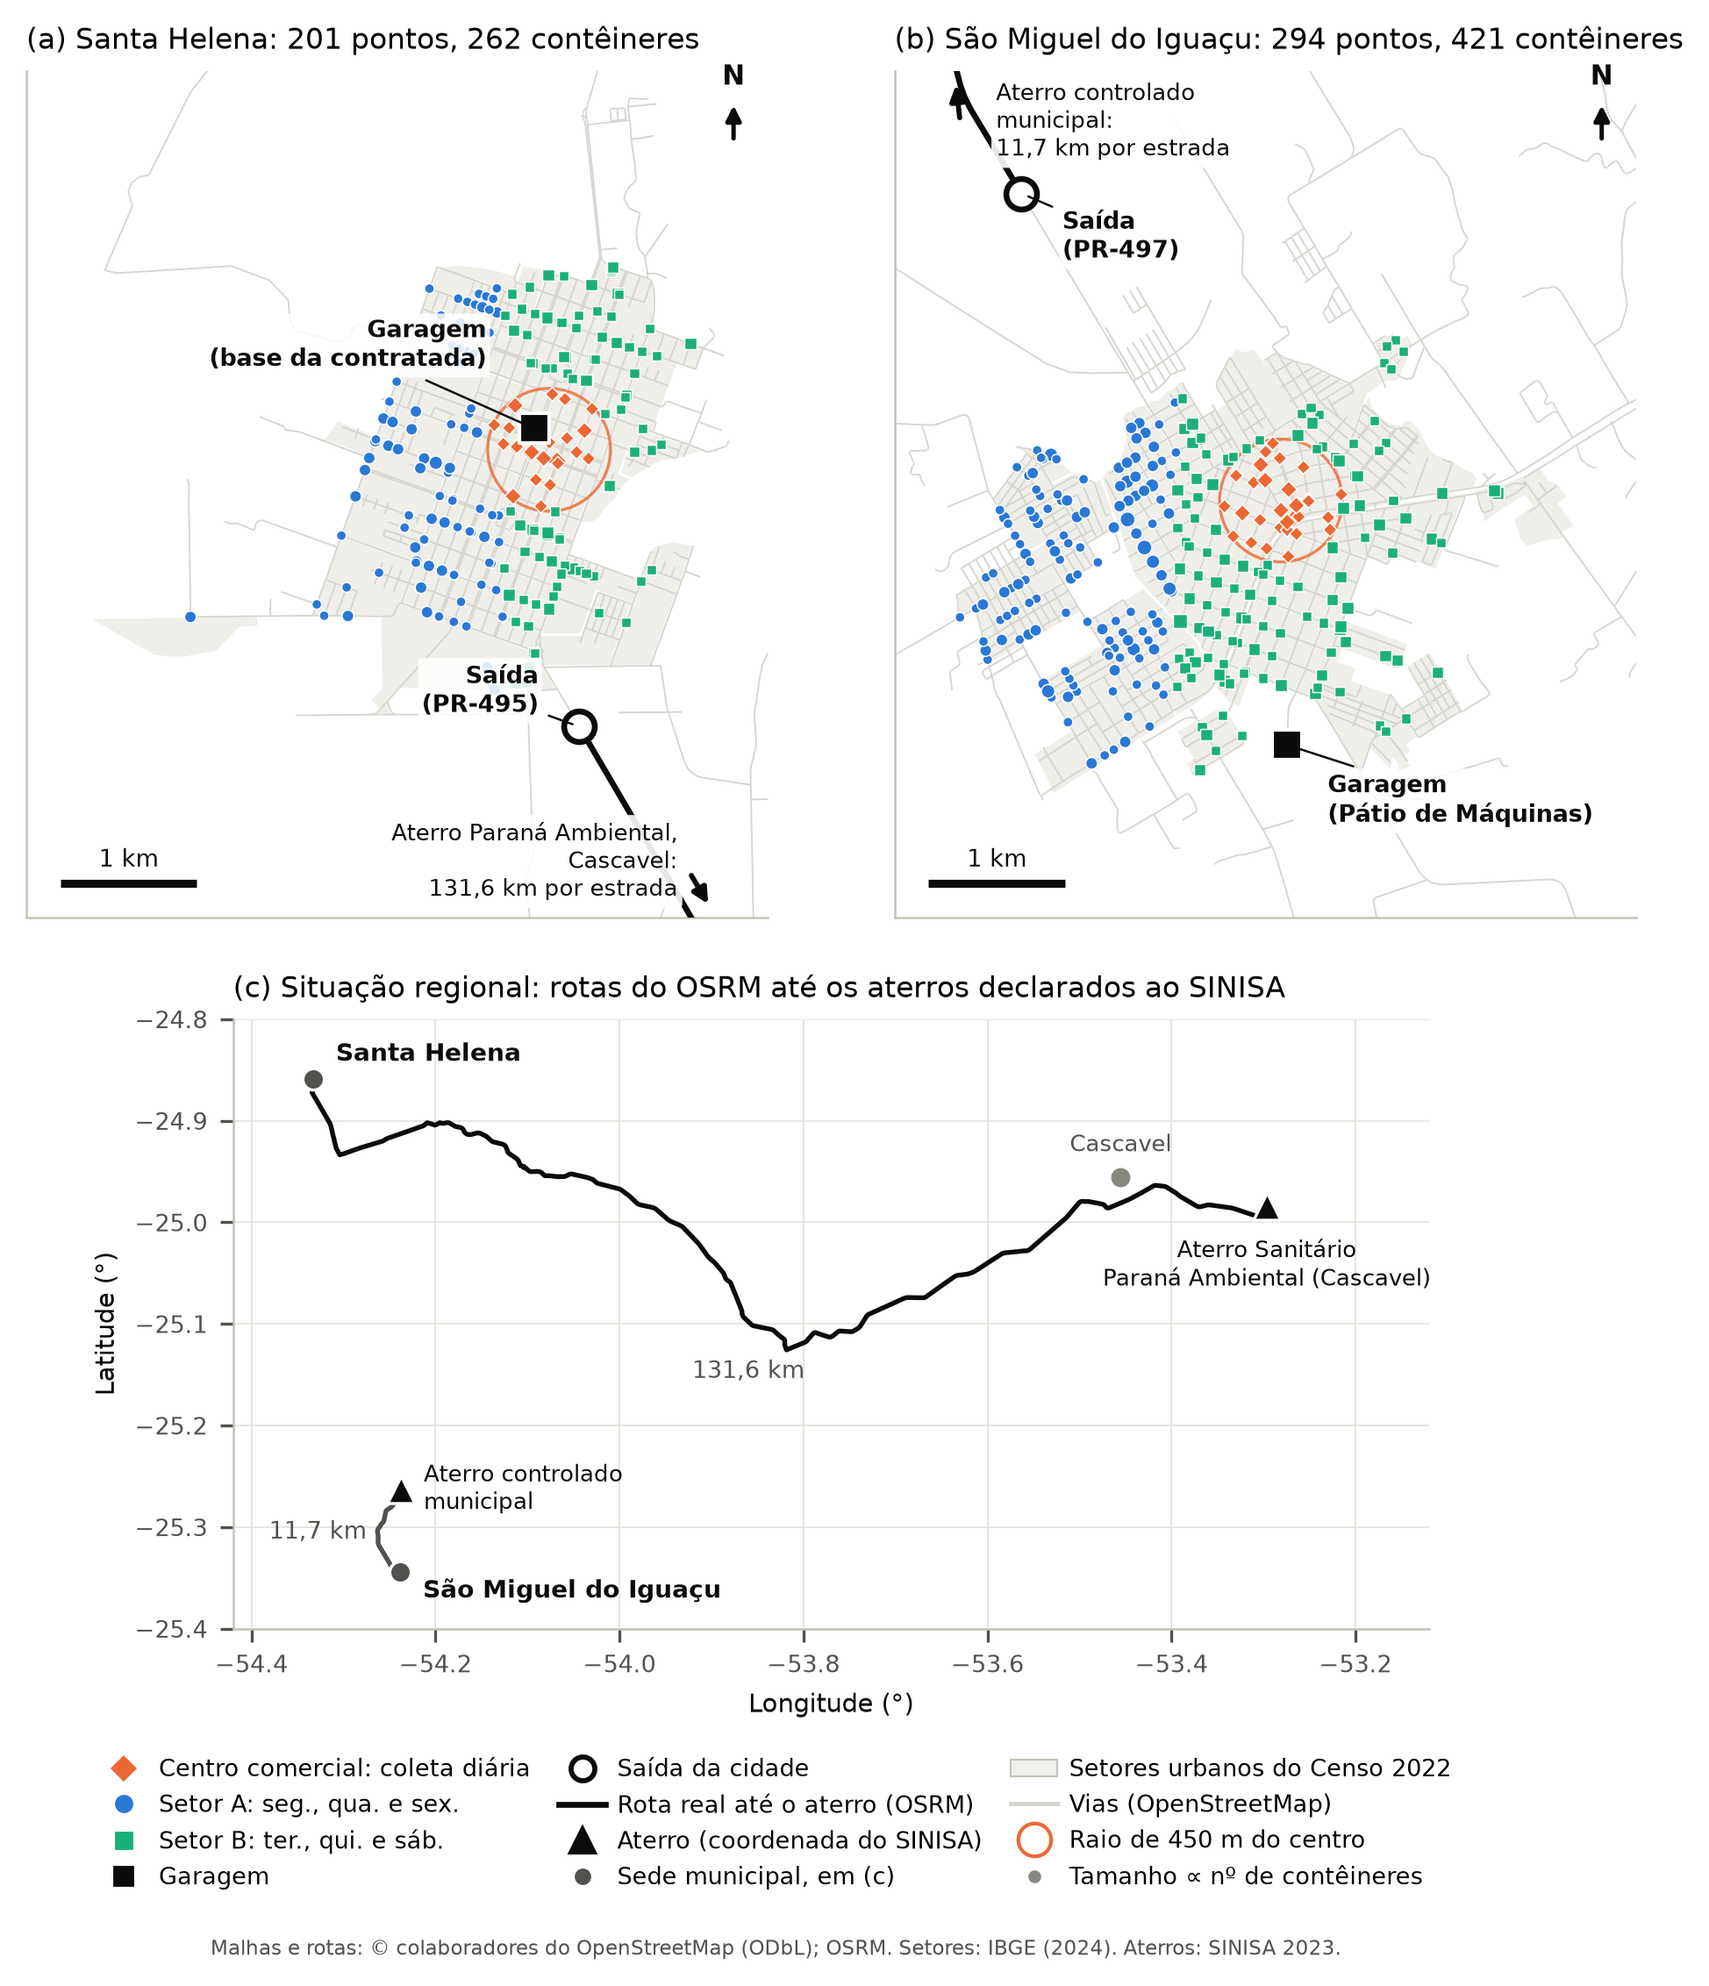
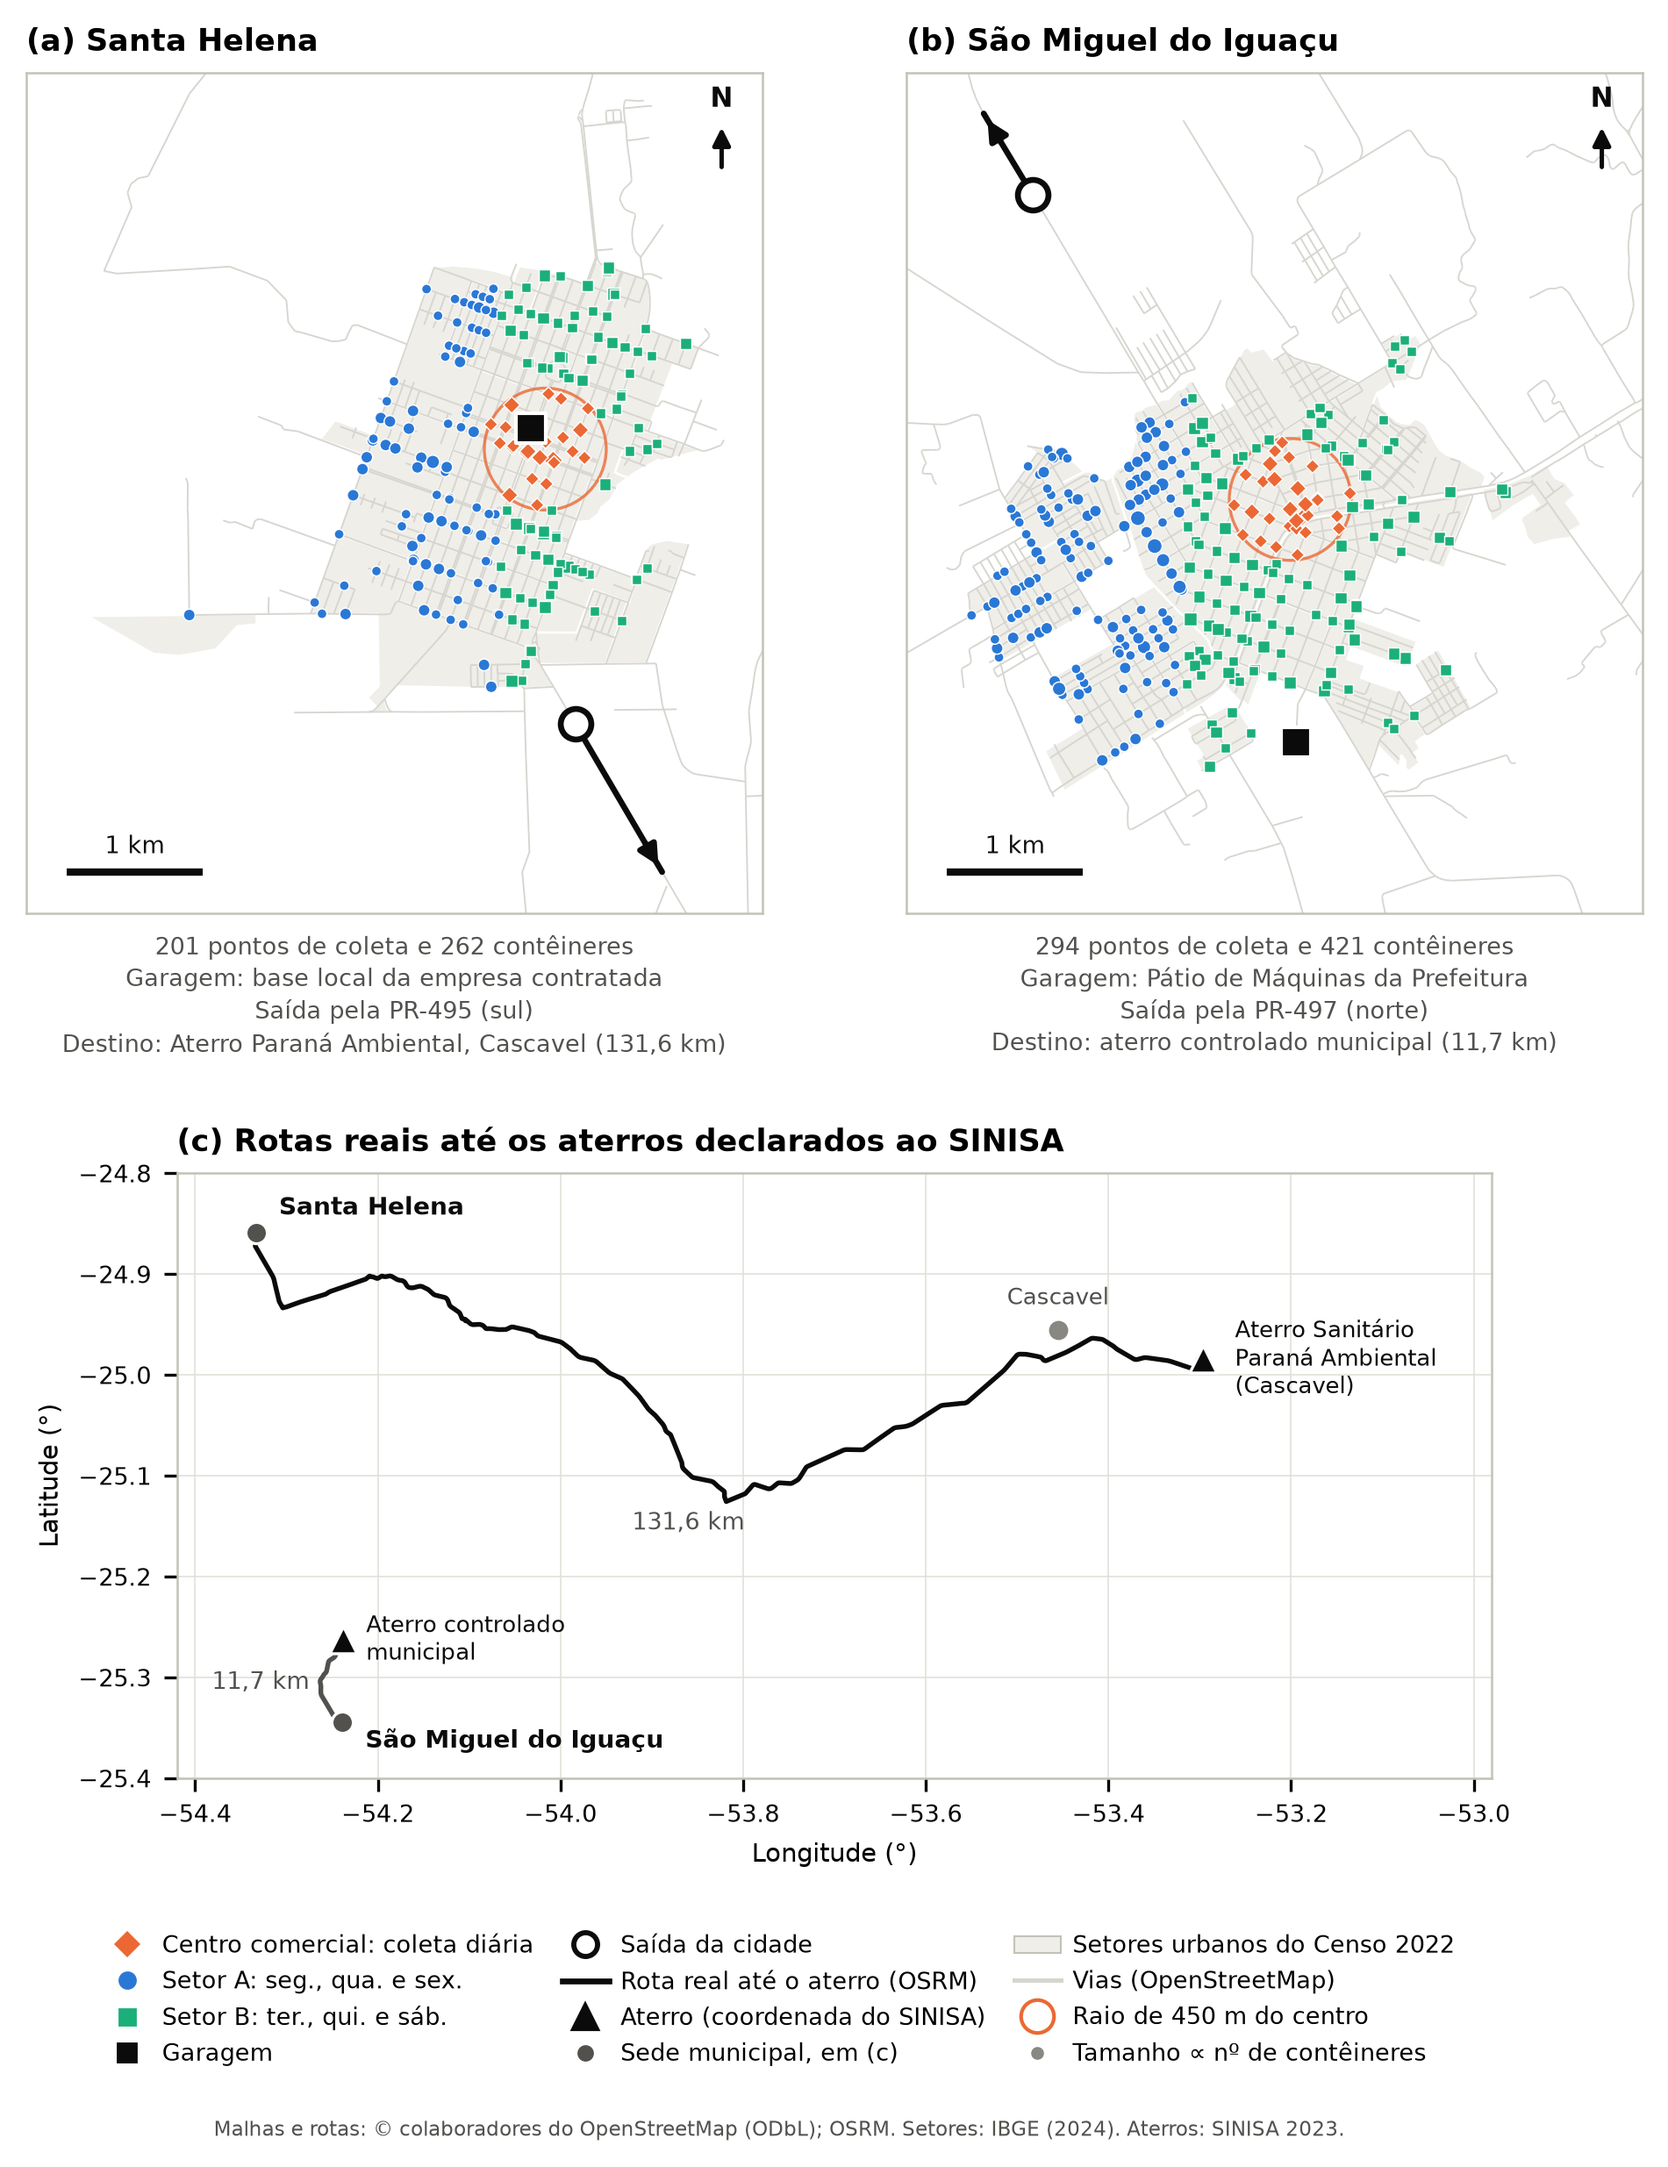
Figura dos casos reais sem texto sobreposto
- textos de garagem, saída e destino saem de dentro dos mapas e vão para a descrição abaixo de cada painel
- seta da rota termina dentro do quadro; quadros com borda completa; títulos uniformes
- painel regional com rótulos em área livre

diff --git a/wrsim/fig_casos_reais.py b/wrsim/fig_casos_reais.py
@@ -26,12 +26,16 @@ SECT = {0: ("#eb6834", "D", "Centro comercial: coleta diária"),
         2: ("#1baf7a", "s", "Setor B: ter., qui. e sáb.")}
 INFO = {
     "santa_helena": dict(nome="Santa Helena", garagem="Garagem\n(base da contratada)", saida="Saída\n(PR-495)",
-                         destino="Aterro Sanitário\nParaná Ambiental (Cascavel)", curto="Aterro Paraná Ambiental,\nCascavel", km=131.6,
+                         destino="Aterro Sanitário\nParaná Ambiental\n(Cascavel)", curto="Aterro Paraná Ambiental,\nCascavel", km=131.6,
+                         garagem_txt="base local da empresa contratada", rodovia="PR-495 (sul)",
+                         destino_txt="Aterro Paraná Ambiental, Cascavel",
                          # rótulos (dx, dy em km; alinhamento), posicionados à mão para não colidir
                          g_lab=(-0.35, 0.40, "right", "bottom"), e_lab=(-0.30, 0.05, "right", "bottom"),
                          r_lab=(-0.25, 0.05, "right", "bottom")),
     "sao_miguel": dict(nome="São Miguel do Iguaçu", garagem="Garagem\n(Pátio de Máquinas)", saida="Saída\n(PR-497)",
                        destino="Aterro controlado\nmunicipal", curto="Aterro controlado\nmunicipal", km=11.7,
+                       garagem_txt="Pátio de Máquinas da Prefeitura", rodovia="PR-497 (norte)",
+                       destino_txt="aterro controlado municipal",
                        g_lab=(0.30, -0.20, "left", "top"), e_lab=(0.30, -0.10, "left", "top"),
                        r_lab=(0.30, -0.02, "left", "top")),
 }
@@ -45,14 +49,23 @@ def _route_xy(path, p):
     return np.c_[(g[:, 0] - lon0) * kx, (g[:, 1] - lat0) * 110540.0], g, r["distance"] / 1000
 
 
-def _clip_after(xy, start, box):
-    """Trecho da rota a partir do ponto mais próximo da saída até sair do quadro."""
+def _clip_after(xy, start, box, margin=0.3):
+    """Trecho da rota a partir da saída até a margem interna do quadro (a seta termina dentro dele)."""
+    inner = (box[0] + margin, box[1] - margin, box[2] + margin, box[3] - margin)
+    inside = lambda q: inner[0] <= q[0] <= inner[1] and inner[2] <= q[1] <= inner[3]
     i = int(np.argmin(np.linalg.norm(xy - start, axis=1)))
-    seg = [start]
+    seg = [np.asarray(start, float)]
     for q in xy[i + 1:]:
-        seg.append(q)
-        if not (box[0] <= q[0] <= box[1] and box[2] <= q[1] <= box[3]):
+        if not inside(q):
+            a = seg[-1]
+            # recua sobre o segmento até a margem interna
+            for t in np.linspace(1, 0, 101):
+                r = a + t * (q - a)
+                if inside(r):
+                    seg.append(r)
+                    break
             break
+        seg.append(q)
     return np.array(seg)
 
 
@@ -100,13 +113,8 @@ def city_panel(ax, name, data, half_w, half_h, letter, pre):
         if len(seg) >= 2:
             a, b = seg[-2], seg[-1]
             d = (b - a) / max(np.linalg.norm(b - a), 1e-9)
-            tip = np.array([np.clip(b[0], box[0] + 0.05, box[1] - 0.05), np.clip(b[1], box[2] + 0.05, box[3] - 0.05)])
-            ax.annotate("", xy=tip, xytext=tip - 0.35 * d, arrowprops=dict(arrowstyle="-|>", color=INK, lw=1.4), zorder=4)
-            kmtxt = f"{info['km']:.1f}".replace(".", ",")
-            lab = f"{info['curto']}:\n{kmtxt} km por estrada"
-            dx, dy, ha, va = info["r_lab"]
-            ax.text(tip[0] + dx, tip[1] + dy, lab, fontsize=6.3, color=INK, ha=ha, va=va,
-                    zorder=5, bbox=dict(boxstyle="round,pad=0.2", fc="white", ec="none", alpha=0.9))
+            ax.annotate("", xy=b, xytext=b - 0.3 * d, arrowprops=dict(arrowstyle="-|>", color=INK, lw=1.6,
+                        mutation_scale=11), zorder=4)
     # pontos de coleta por setor (tamanho ~ contêineres)
     pts = xy[c.point_node]
     for s, (col, mk, _) in SECT.items():
@@ -117,32 +125,31 @@ def city_panel(ax, name, data, half_w, half_h, letter, pre):
     ax.scatter(*g, s=70, marker="s", c=INK, edgecolors="white", linewidths=1.0, zorder=6)
     ax.scatter(*e, s=70, marker="o", c="white", edgecolors=INK, linewidths=1.6, zorder=6)
 
-    def place(pt, text, spec):
-        dx, dy, ha, va = spec
-        ax.annotate(text, pt, xytext=(pt[0] + dx, pt[1] + dy),
-                    fontsize=6.4, color=INK, weight="bold", ha=ha, va=va, zorder=7,
-                    bbox=dict(boxstyle="round,pad=0.15", fc="white", ec="none", alpha=0.85),
-                    arrowprops=dict(arrowstyle="-", color=INK, lw=0.6))
-    place(g, info["garagem"], info["g_lab"])
-    place(e, info["saida"], info["e_lab"])
-    # escala e norte
-    sx, sy = box[0] + 0.25, box[2] + 0.25
-    ax.plot([sx, sx + 1.0], [sy, sy], color=INK, lw=2.2, solid_capstyle="butt", zorder=7)
-    ax.text(sx + 0.5, sy + 0.08, "1 km", fontsize=6.5, color=INK, ha="center", va="bottom", zorder=7)
-    nx_, ny_ = box[1] - 0.25, box[3] - 0.55
-    ax.annotate("", xy=(nx_, ny_ + 0.35), xytext=(nx_, ny_), arrowprops=dict(arrowstyle="-|>", color=INK, lw=1.2))
-    ax.text(nx_, ny_ + 0.4, "N", fontsize=7.5, color=INK, ha="center", va="bottom", weight="bold")
-    ax.set_xlim(box[0], box[1]); ax.set_ylim(box[2], box[3])
+    # escala e norte, nos cantos livres
+    bx0, bx1, by0, by1 = box
+    sx, sy = bx0 + 0.3, by0 + 0.3
+    ax.plot([sx, sx + 1.0], [sy, sy], color=INK, lw=2.0, solid_capstyle="butt", zorder=7)
+    ax.text(sx + 0.5, sy + 0.1, "1 km", fontsize=6.5, color=INK, ha="center", va="bottom", zorder=7)
+    nx_, ny_ = bx1 - 0.3, by1 - 0.75
+    ax.annotate("", xy=(nx_, ny_ + 0.4), xytext=(nx_, ny_), arrowprops=dict(arrowstyle="-|>", color=INK, lw=1.2))
+    ax.text(nx_, ny_ + 0.45, "N", fontsize=7.5, color=INK, ha="center", va="bottom", weight="bold")
+    ax.set_xlim(bx0, bx1); ax.set_ylim(by0, by1)
     ax.set_aspect("equal"); ax.set_xticks([]); ax.set_yticks([])
     for sp in ax.spines.values():
-        sp.set_color("#c3c2b7"); sp.set_linewidth(0.6)
-    ax.set_title(f"({letter}) {info['nome']}: {c.n} pontos, {int(c.n_cont.sum())} contêineres", fontsize=8, loc="left")
+        sp.set_visible(True); sp.set_color("#c3c2b7"); sp.set_linewidth(0.6)
+    ax.set_title(f"({letter}) {info['nome']}", fontsize=8.5, loc="left", weight="bold")
+    kmtxt = f"{info['km']:.1f}".replace(".", ",")
+    ax.set_xlabel(f"{c.n} pontos de coleta e {int(c.n_cont.sum())} contêineres\n"
+                  f"Garagem: {info['garagem_txt']}\n"
+                  f"Saída pela {info['rodovia']}\n"
+                  f"Destino: {info['destino_txt']} ({kmtxt} km)",
+                  fontsize=6.5, color=INK2, linespacing=1.35, labelpad=5)
     return c
 
 
 def region_panel(ax, data):
     LAB = {  # posições dos rótulos (graus) escolhidas para não cruzar rotas nem marcadores
-        "santa_helena": dict(cid=(0.025, 0.012, "left", "bottom"), aterro=(0.0, -0.03, "center", "top"),
+        "santa_helena": dict(cid=(0.025, 0.012, "left", "bottom"), aterro=(0.035, 0.0, "left", "center"),
                              km=(-53.86, -25.135, "center", "top")),
         "sao_miguel": dict(cid=(0.025, -0.006, "left", "top"), aterro=(0.025, 0.0, "left", "center"),
                            km=(-54.275, -25.305, "right", "center")),
@@ -163,14 +170,14 @@ def region_panel(ax, data):
         ax.text(x, y, f"{km:.1f} km".replace(".", ","), fontsize=6.4, color=INK2, ha=ha, va=va, zorder=6)
     ax.scatter(-53.4552, -24.9555, s=18, c=MUTED, zorder=3)
     ax.text(-53.4552, -24.9555 + 0.02, "Cascavel", fontsize=6.3, color=INK2, ha="center", va="bottom")
-    ax.set_xlim(-54.42, -53.12); ax.set_ylim(-25.40, -24.80)
+    ax.set_xlim(-54.42, -52.98); ax.set_ylim(-25.40, -24.80)
     ax.set_aspect(1 / np.cos(np.radians(25.1)))
     ax.set_xlabel("Longitude (°)", fontsize=7); ax.set_ylabel("Latitude (°)", fontsize=7)
     ax.tick_params(labelsize=6.5)
     ax.grid(color="#e1e0d9", lw=0.4)
     for sp in ax.spines.values():
-        sp.set_color("#c3c2b7"); sp.set_linewidth(0.6)
-    ax.set_title("(c) Situação regional: rotas do OSRM até os aterros declarados ao SINISA", fontsize=8, loc="left")
+        sp.set_visible(True); sp.set_color("#c3c2b7"); sp.set_linewidth(0.6)
+    ax.set_title("(c) Rotas reais até os aterros declarados ao SINISA", fontsize=8.5, loc="left", weight="bold")
 
 
 def main():
@@ -186,8 +193,8 @@ def render(data, out):
     pre = {n: extent(n, a.data) for n in ("santa_helena", "sao_miguel")}
     half_w = max((e[1] - e[0]) / 2 for *_, e in pre.values()) + 0.45
     half_h = max((e[3] - e[2]) / 2 for *_, e in pre.values()) + 0.9
-    fig = plt.figure(figsize=(7.0, 7.4))
-    gs = fig.add_gridspec(2, 2, height_ratios=[1.0, 0.72], hspace=0.14, wspace=0.05)
+    fig = plt.figure(figsize=(7.0, 8.1))
+    gs = fig.add_gridspec(2, 2, height_ratios=[1.0, 0.72], hspace=0.36, wspace=0.08)
     ax1, ax2 = fig.add_subplot(gs[0, 0]), fig.add_subplot(gs[0, 1])
     city_panel(ax1, "santa_helena", a.data, half_w, half_h, "a", pre["santa_helena"])
     city_panel(ax2, "sao_miguel", a.data, half_w, half_h, "b", pre["sao_miguel"])
